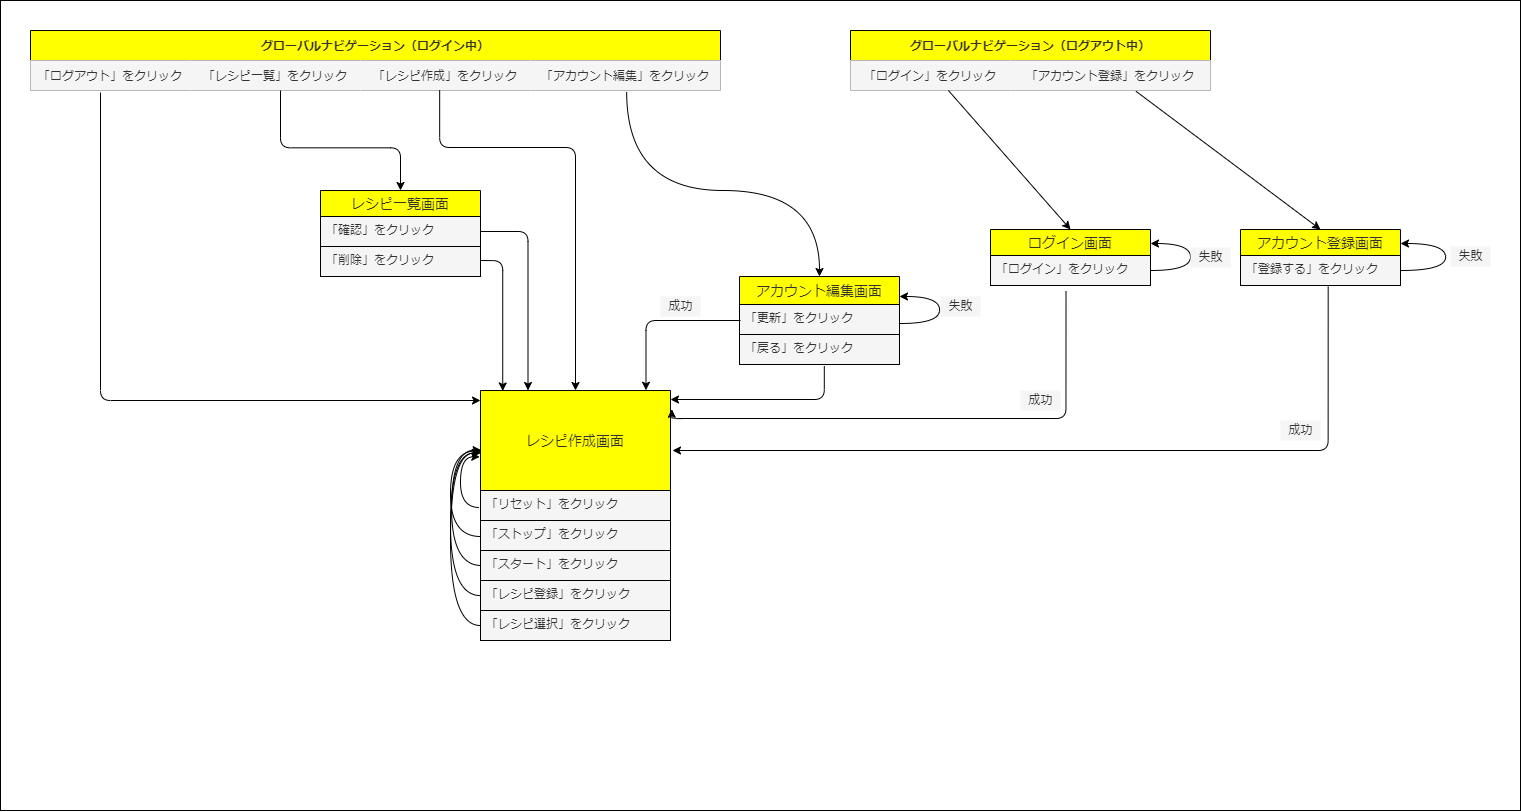
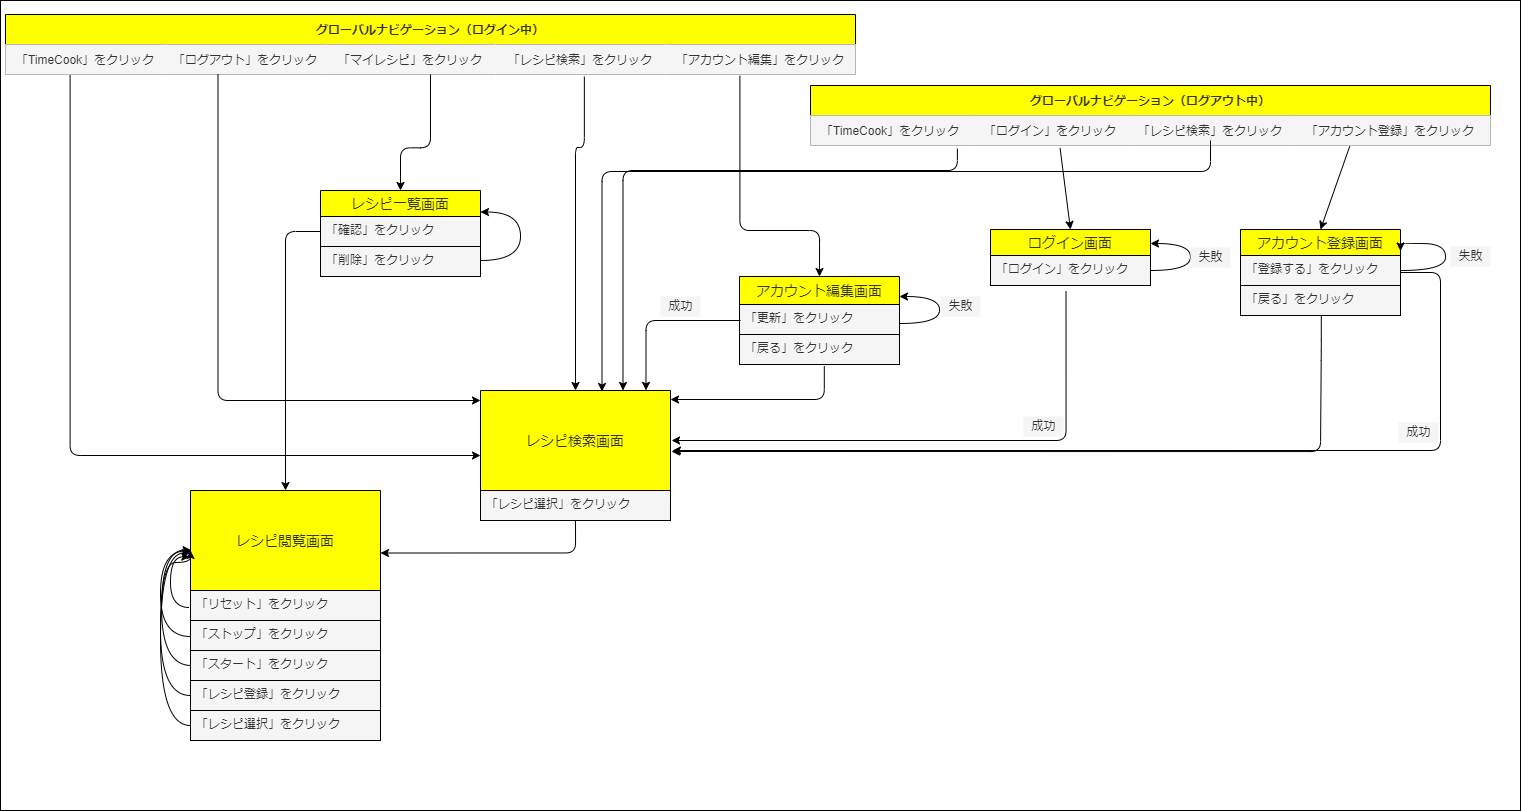
timecook

diff --git a/app/javascript/packs/glaph.js b/app/javascript/packs/glaph.js
@@ -2,6 +2,7 @@ var taname = document.getElementById('taname').value.split("', '");
 var tastti = document.getElementById('tastti').value.split(", ");
 var tacoti = document.getElementById('tacoti').value.split(", ");
 var tacolo = document.getElementById('tacolo').value.split("', '");
+var maxti = document.getElementById('time').value;
 var ctx = document.getElementById('mychart-bar-stack');
 var myChart = new Chart(ctx, {
     type: 'bar',
@@ -40,6 +41,9 @@ var myChart = new Chart(ctx, {
                 display: false
               },
               ticks : {
+                min: 0,
+                max: maxti,
+                stepSize: 5,
                 callback: function(tick) {
 
                     let min = Math.floor(tick % 3600 / 60);

diff --git a/app/controllers/recipes_controller.rb b/app/controllers/recipes_controller.rb
@@ -12,7 +12,6 @@ class RecipesController < ApplicationController
     def show
       @recipes = Recipe.find(params[:id])
       @tasks = Task.where(recipe_id: @recipes.id)
-      @data = [{ name: 'Good yen!', data: [10, 20, 30] }, { name: 'あと一歩', data: [10, 20, 30] }]
     end
   
     def edit
@@ -21,11 +20,11 @@ class RecipesController < ApplicationController
       recipesUser = RecipesUser.find_by(user_id:userA.id,recipe_id:recipeA.id)
       if recipesUser != nil
         redirect_to recipe_path(recipeA.id)
-        flash[:notice] = '既に登録されています'
+        flash[:notice] = '既に登録されています。マイレシピをご確認下さい。'
       else
         userA.recipes << recipeA
-        redirect_to user_path(userA.id)
-        flash[:notice] = 'レシピを登録しました'      
+        redirect_to recipe_path(recipeA.id)
+        flash[:notice] = 'レシピを登録しました。マイレシピから確認できます。'      
       end
     end
   

diff --git a/app/controllers/users_controller.rb b/app/controllers/users_controller.rb
@@ -11,7 +11,7 @@ class UsersController < ApplicationController
       @user = User.new(user_params)
       if @user.save
         log_in(@user)
-        redirect_to user_path(@user.id)
+        redirect_to recipes_path
       else
         render :new
       end
@@ -27,7 +27,7 @@ class UsersController < ApplicationController
 
     def update
         if @user.update(user_params)
-            redirect_to user_path(@user.id)
+            redirect_to recipes_path
             flash[:notice] = 'アカウントを更新しました'
         else
             render :edit

diff --git a/app/controllers/sessions_controller.rb b/app/controllers/sessions_controller.rb
@@ -8,7 +8,8 @@ class SessionsController < ApplicationController
         user = User.find_by(name: params[:session][:name].downcase)
         if user && user.authenticate(params[:session][:password])
           log_in(user)
-          redirect_to user_path(user.id)
+          redirect_to recipes_path
+          flash[:notice] = 'ログインしました'
         else
           flash[:danger] = 'ログインに失敗しました'
           render :new
